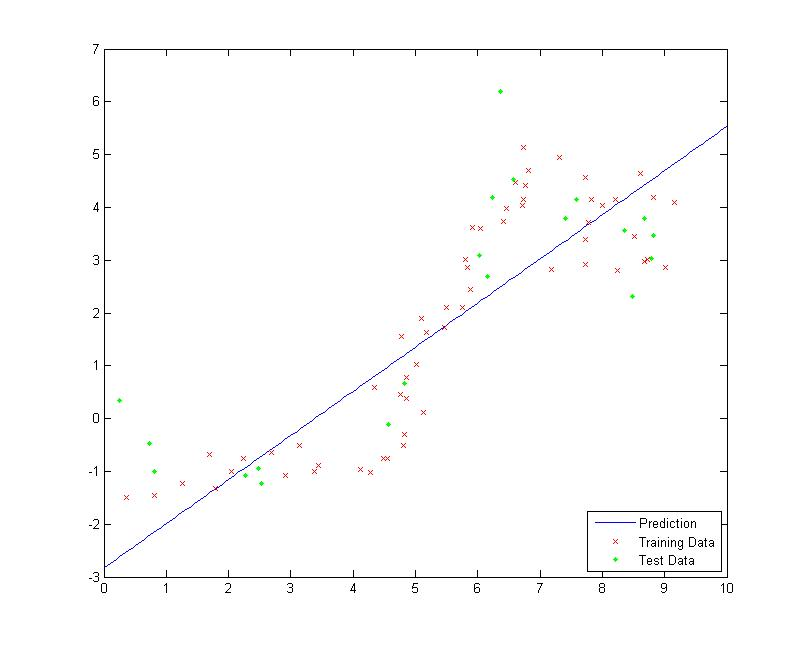
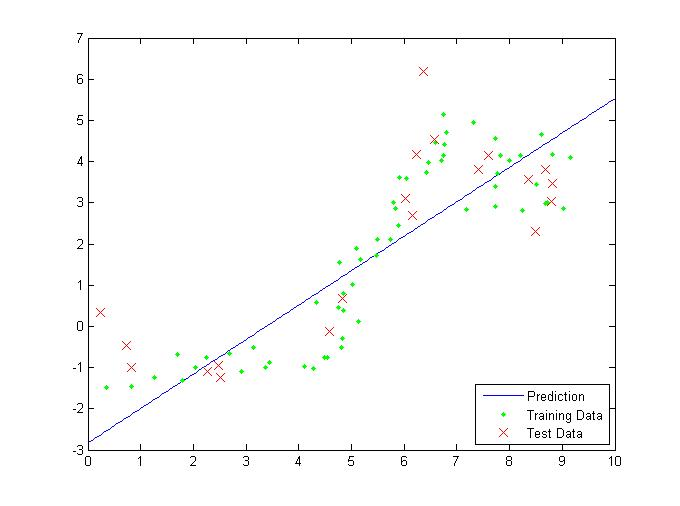
fixed part of prob 1

diff --git a/Homework2/HW2/prob1.m b/Homework2/HW2/prob1.m
@@ -14,15 +14,15 @@ ys = predict( lr, xs ); % make predictions at xs
 
 plot(xs,ys)
 hold on
-plot(Xtr,Ytr,'rx')
-plot(Xte,Yte,'g.')
-legend('Prediction','Training Data','Test Data','Location','SouthEast');
+plot(Xtr,Ytr,'g.','MarkerSize',10)
+%plot(Xte,Yte,'rx','MarkerSize',10)
+legend('Prediction','Training Data','Location','SouthEast');
 
 %calculate MSE
 YhatTr = predict(lr,Xtr); %gets predicted y for training data
 YhatTe = predict(lr,Xte); %gets predicted y for test data
-mseTr = sum(abs(YhatTr-Ytr).^2);
-mseTe = sum(abs(YhatTe-Yte).^2);
+mseTr = mean(abs(YhatTr-Ytr).^2);
+mseTe = mean(abs(YhatTe-Yte).^2);
 
 %%
 %Part C

diff --git a/Homework2/HW2/HW2_solution.tex b/Homework2/HW2/HW2_solution.tex
@@ -69,14 +69,16 @@ Here is the code to complete part a
 \subsection*{Part b}
 
 Here is the code to complete part b. It does rely on the code from part a:
-\lstinputlisting[firstline=9, lastline=24]{prob1.m}
+\lstinputlisting[firstline=9, lastline=25]{prob1.m}
+The MSE for the training data was 1.1277\\
+The MSE for the test data was 2.2423\\
 
 \newpage
 
 Here is the plot for part b:
 \begin{figure}[h]
 \centering
-\includegraphics[width=5 in]{prob1bPlot.jpg}
+\includegraphics[width=5 in]{prob1bPlot.png}
 \caption{The training data, test data, and the predicted values}
 \end{figure}
 
